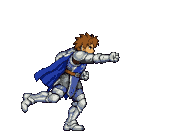
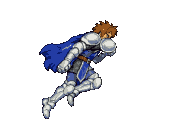
남자 기사 어깨빵 새 그림(한쪽 어깨로 밀기) + 걷기 10% 빠르게 + 폰 조이스틱 계속 밀면 달리기

Changed region(s): [[0.1136, 0.1471, 0.6818, 0.9706]]

diff --git a/js/input.js b/js/input.js
@@ -1,6 +1,6 @@
 // 조작: PC 키보드 + 폰 가상 조이스틱 / 공격·점프·기술 버튼
 // 달리기(2026-11-03): 키보드 = 같은 쪽(←/→)을 빠르게 두 번 → 누르고 있는 동안 달림.
-//   폰 = 조이스틱을 가로로 끝까지(CFG.move.joyRunAt) 밀거나, 손을 뗐다가 바로(joyFlickMs) 같은 쪽으로 다시 밀면 달림
+//   폰 = 조이스틱을 가로로 같은 쪽으로 잠깐(CFG.move.joyHoldMs) 계속 밀거나, 손을 뗐다가 바로(joyFlickMs) 같은 쪽으로 다시 밀면 달림
 (function () {
   var keysDown = {};
   var attackQueued = 0;   // 누른 순간 기록(시각)
@@ -11,7 +11,8 @@
   // 달리기: runKey = 키보드로 정한 달리는 쪽(-1/1, 0 = 아님), tap = 마지막으로 누른 좌/우와 시각
   var runKey = 0, tap = { dir: 0, t: 0 };
   // 폰: joyRun = 조이스틱으로 정한 달리는 쪽, joyRel = 마지막으로 뗀 시각·쪽(빠르게 다시 밀기 = 달리기)
-  var joyRun = 0, joyRel = { t: -1e9, dir: 0 }, joyFlick = false;
+  var joyRun = 0, joyRel = { t: -1e9, dir: 0 }, joyFlick = false, joyHold = { dir: 0, t: 0 };   // joyHold = 같은 쪽으로 밀기 시작한 시각
+  var joyRunTick = null;   // 조이스틱 만들 때 joyRunCheck 를 넣어 둠 → runDir 가 매 프레임 부름
 
   function matches(code, list) { return list.indexOf(code) >= 0; }
   function anyHeld(list) { for (var i = 0; i < list.length; i++) if (keysDown[list[i]]) return true; return false; }
@@ -60,18 +61,22 @@
       joy.x = dx / R; joy.y = dy / R;
       joyRunCheck();
     }
-    // 달리기 판정(조이스틱): 가로로 끝까지 밀면 → 달림, 0.55 아래로 돌아오거나 반대로 밀면 → 걷기
-    //   빠르게 다시 밀기(joyFlick)로 시작한 달리기는 살짝(0.35)만 밀고 있어도 유지
+    // 달리기 판정(조이스틱) (2026-11-03 형님 요청으로 변경): 가로로 같은 쪽을 joyHoldMs 동안 계속 밀고 있으면 → 달림
+    //   (반쯤만 밀어도 됨, joyHoldAt 이상). 손 뗐다가 바로 같은 쪽으로 다시 밀기(joyFlick)도 그대로 달림
+    //   달리다가 0.35 아래로 돌아오거나 반대로 밀면 → 걷기
     function joyRunCheck() {
-      var M = MV(), ax = Math.abs(joy.x), s = joy.x > 0 ? 1 : -1, horiz = ax > Math.abs(joy.y) * 0.9;
+      var M = MV(), ax = Math.abs(joy.x), s = joy.x > 0 ? 1 : -1, horiz = ax > Math.abs(joy.y) * 0.9, now = performance.now();
       if (joyRun) {
-        if (s !== joyRun || ax < (joyFlick ? 0.35 : 0.55)) { joyRun = 0; joyFlick = false; }
+        if (s !== joyRun || ax < 0.35) { joyRun = 0; joyFlick = false; }
       }
+      if (horiz && ax >= (M.joyHoldAt || 0.5)) { if (joyHold.dir !== s) joyHold = { dir: s, t: now }; }
+      else joyHold = { dir: 0, t: 0 };
       if (!joyRun && horiz) {
-        if (ax >= (M.joyRunAt || 0.9)) { joyRun = s; joyFlick = false; }
-        else if (ax > 0.4 && joyRel.dir === s && performance.now() - joyRel.t <= (M.joyFlickMs || 280)) { joyRun = s; joyFlick = true; }
+        if (joyHold.dir === s && now - joyHold.t >= (M.joyHoldMs || 450)) { joyRun = s; joyFlick = false; }
+        else if (ax > 0.4 && joyRel.dir === s && now - joyRel.t <= (M.joyFlickMs || 280)) { joyRun = s; joyFlick = true; }
       }
     }
+    joyRunTick = joyRunCheck;
     zone.addEventListener('pointerdown', function (e) {
       if (joy.id !== null) return;
       joy.id = e.pointerId; joy.active = true;
@@ -91,7 +96,7 @@
       if (e.pointerId !== joy.id) return;
       // 가로로 꽤 민 채로 뗐으면 기억(바로 같은 쪽으로 다시 밀면 달리기)
       joyRel = Math.abs(joy.x) > 0.4 ? { t: performance.now(), dir: joy.x > 0 ? 1 : -1 } : { t: -1e9, dir: 0 };
-      joy.id = null; joy.active = false; joy.x = joy.y = 0; joyRun = 0; joyFlick = false;
+      joy.id = null; joy.active = false; joy.x = joy.y = 0; joyRun = 0; joyFlick = false; joyHold = { dir: 0, t: 0 };
       knob.style.transform = '';
       base.classList.remove('on');
       base.style.left = ''; base.style.top = '';
@@ -134,7 +139,7 @@
   // 지금 달리는 쪽(-1/1), 아니면 0. 그 쪽을 누르고(밀고) 있을 때만
   function runDir(cfg) {
     if (override) return override.run || 0;
-    if (joy.active) return joyRun;
+    if (joy.active) { if (joyRunTick) joyRunTick(); return joyRun; }   // 손가락이 멈춰 있어도 「계속 밀고 있는 시간」을 매 프레임 확인
     var K = cfg.keys;
     if (runKey && anyHeld(runKey < 0 ? K.left : K.right) && !anyHeld(runKey < 0 ? K.right : K.left)) return runKey;
     return 0;

diff --git a/js/config.js b/js/config.js
@@ -543,8 +543,8 @@
 
     // ---------- 움직임 ----------
     player: {
-      speedX: 104,          // 1초에 도트 몇 칸 (좌우)  (2026-11-03: 90 → 104, 약 15% 빠르게)
-      speedY: 63,           // 위아래 (안쪽/바깥쪽)  (55 → 63)
+      speedX: 115,          // 1초에 도트 몇 칸 (좌우)  (2026-11-03: 90 → 104 → 115, 걷기 조금 더 빠르게)
+      speedY: 69,           // 위아래 (안쪽/바깥쪽)  (55 → 63 → 69)
       startX: 200,
       hitbox: { x0: 8, x1: 92, yTop: -100, yBot: -18, depth: 14 } // 발 기준, 오른쪽 볼 때
     },
@@ -555,9 +555,10 @@
     move: {
       data: 'assets/chars/stage1/motions_move.json',
       doubleTapMs: 250,     // 키보드: 같은 쪽(←/→)을 이 시간 안에 두 번 누르면 달리기(누르고 있는 동안)
-      runMul: 2.3,          // 달리기 속도 = 걷기 x 2.3 (견습 남 약 177 도트/초). 그림은 「달린 거리」로 넘김 → 발이 안 미끄러짐
+      runMul: 2.08,         // 달리기 속도 = 걷기 x 2.08 (걷기를 115로 올리면서 달리기 속도는 그대로: 104x2.3 ≈ 115x2.08) (견습 남 약 177 도트/초). 그림은 「달린 거리」로 넘김 → 발이 안 미끄러짐
       runDepthMul: 0.55,    // 달리면서 위아래(안쪽) = 걷기 위아래 x 0.55 (느리게)
-      joyRunAt: 0.9,        // 폰: 조이스틱을 가로로 끝(0~1 중 0.9)까지 밀면 달리기, 0.55 아래로 돌아오면 걷기
+      joyHoldAt: 0.5,       // 폰: 조이스틱을 가로로 이만큼(0~1) 이상 밀고
+      joyHoldMs: 450,       //     같은 쪽으로 이 시간(ms) 계속 밀고 있으면 달리기 (2026-11-03: 끝까지 밀기 → 계속 밀기로 변경)
       joyFlickMs: 280,      // 폰: 손을 뗐다가 이 시간 안에 같은 쪽으로 다시 밀면 달리기(살짝만 밀어도)
       jump: {
         bufferMs: 150,      // 미리 눌러 둔 점프 기억 시간
